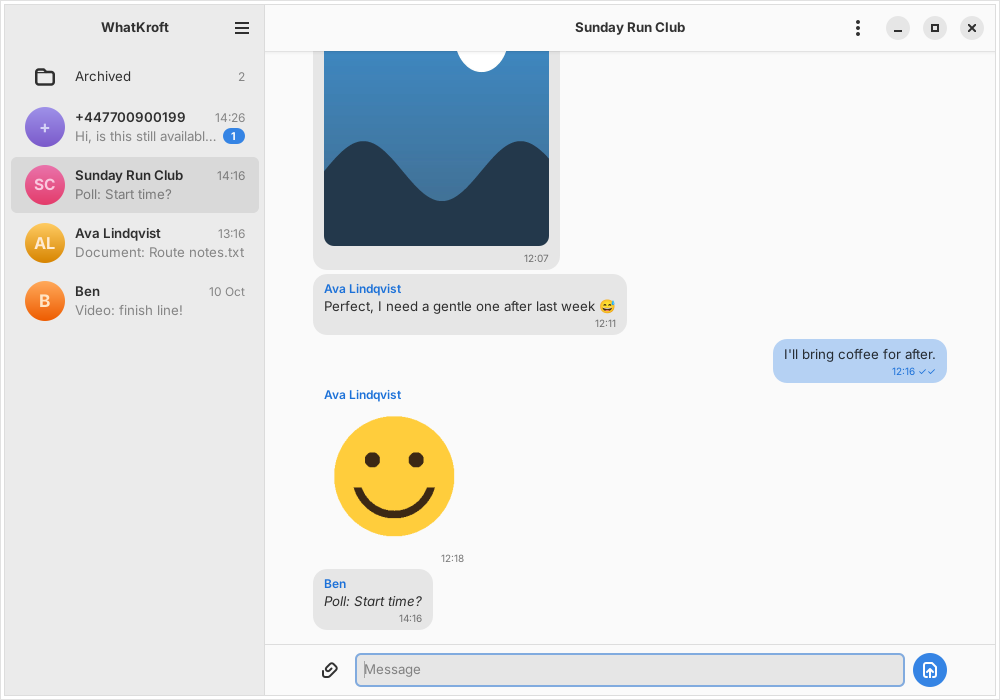
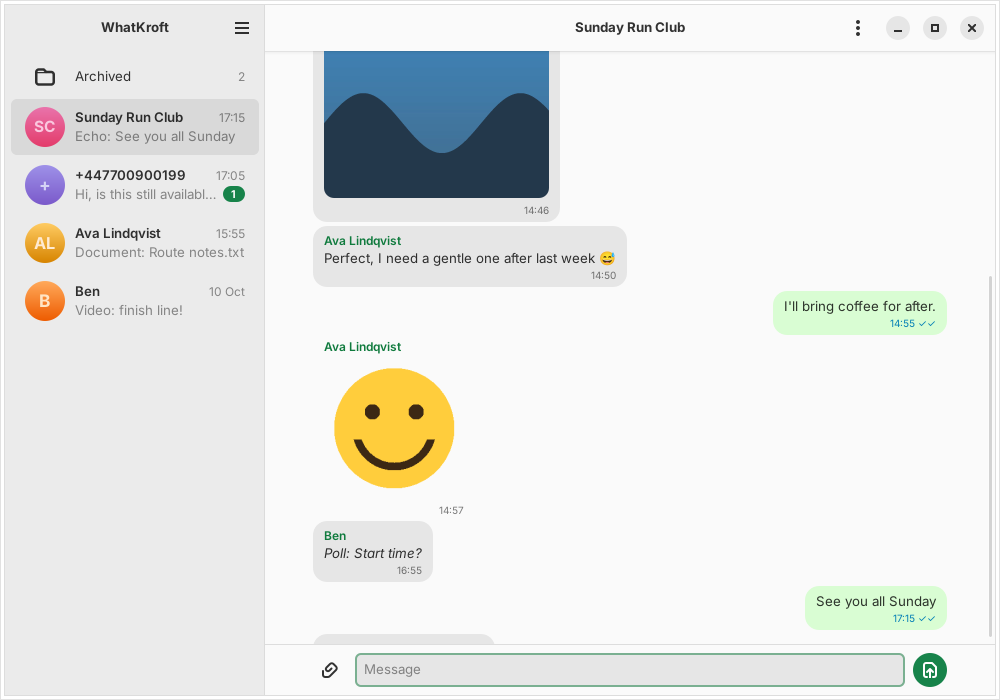
Use a green colour scheme
Sent bubbles, buttons, badges and highlights are now green instead of
following the desktop's accent colour, with separate light and dark
palettes that switch with the system. Read ticks stay blue.

Claude-Session: https://claude.ai/code/session_01MSsyZtqDBSEEUVFJoW5mMa

diff --git a/crates/whatkroft/src/style.css b/crates/whatkroft/src/style.css
@@ -35,7 +35,7 @@
 }
 
 .bubble.out {
-  background-color: mix(@window_bg_color, @accent_bg_color, 0.35);
+  background-color: @wk_bubble_out;
 }
 
 .bubble .sender {
@@ -54,7 +54,7 @@
 }
 
 .bubble .meta.read {
-  color: @accent_color;
+  color: @wk_read;
   opacity: 1;
 }
 

diff --git a/crates/whatkroft/src/ui.rs b/crates/whatkroft/src/ui.rs
@@ -20,16 +20,75 @@ const LOAD_OLDER_WITHIN: f64 = 400.0;
 /// How close to the end (in pixels) still counts as "reading the latest".
 const BOTTOM_SLACK: f64 = 48.0;
 
-pub fn load_css() {
-    let provider = gtk::CssProvider::new();
-    provider.load_from_string(include_str!("style.css"));
-    if let Some(display) = gtk::gdk::Display::default() {
-        gtk::style_context_add_provider_for_display(
-            &display,
-            &provider,
-            gtk::STYLE_PROVIDER_PRIORITY_APPLICATION,
-        );
+/// WhatKroft's own colours, replacing the desktop accent so the app looks
+/// the same everywhere: green for sent bubbles, buttons, badges and
+/// highlights. Read ticks stay blue, as WhatsApp users expect.
+struct Palette {
+    /// Fill of buttons, badges and selections; white text sits on it.
+    accent_bg: &'static str,
+    /// Accent used as text on the window background (sender names, links).
+    accent: &'static str,
+    bubble_out: &'static str,
+    read: &'static str,
+}
+
+const LIGHT: Palette = Palette {
+    accent_bg: "#17834a",
+    accent: "#0f7a3d",
+    bubble_out: "#d9fdd3",
+    read: "#027eb5",
+};
+
+const DARK: Palette = Palette {
+    accent_bg: "#1d9a58",
+    accent: "#5fd38d",
+    bubble_out: "#005c4b",
+    read: "#53bdeb",
+};
+
+fn stylesheet(dark: bool) -> String {
+    let p = if dark { &DARK } else { &LIGHT };
+    let mut css = format!(
+        "@define-color accent_bg_color {bg};\n\
+         @define-color accent_color {accent};\n\
+         @define-color accent_fg_color #ffffff;\n\
+         @define-color wk_bubble_out {bubble};\n\
+         @define-color wk_read {read};\n",
+        bg = p.accent_bg,
+        accent = p.accent,
+        bubble = p.bubble_out,
+        read = p.read,
+    );
+    // Newer libadwaita reads its accent from CSS variables instead. Older
+    // GTK does not know the syntax and would warn about it.
+    if gtk::major_version() > 4 || gtk::minor_version() >= 16 {
+        css.push_str(&format!(
+            ":root {{ --accent-bg-color: {bg}; --accent-color: {accent}; \
+             --accent-fg-color: #ffffff; }}\n",
+            bg = p.accent_bg,
+            accent = p.accent,
+        ));
     }
+    css.push_str(include_str!("style.css"));
+    css
+}
+
+/// Install the stylesheet and keep it matched to light or dark mode.
+pub fn load_css() {
+    let Some(display) = gdk::Display::default() else {
+        return;
+    };
+    let provider = gtk::CssProvider::new();
+    let style = adw::StyleManager::default();
+    provider.load_from_string(&stylesheet(style.is_dark()));
+    gtk::style_context_add_provider_for_display(
+        &display,
+        &provider,
+        gtk::STYLE_PROVIDER_PRIORITY_APPLICATION,
+    );
+    style.connect_dark_notify(move |style| {
+        provider.load_from_string(&stylesheet(style.is_dark()));
+    });
 }
 
 pub struct App {
